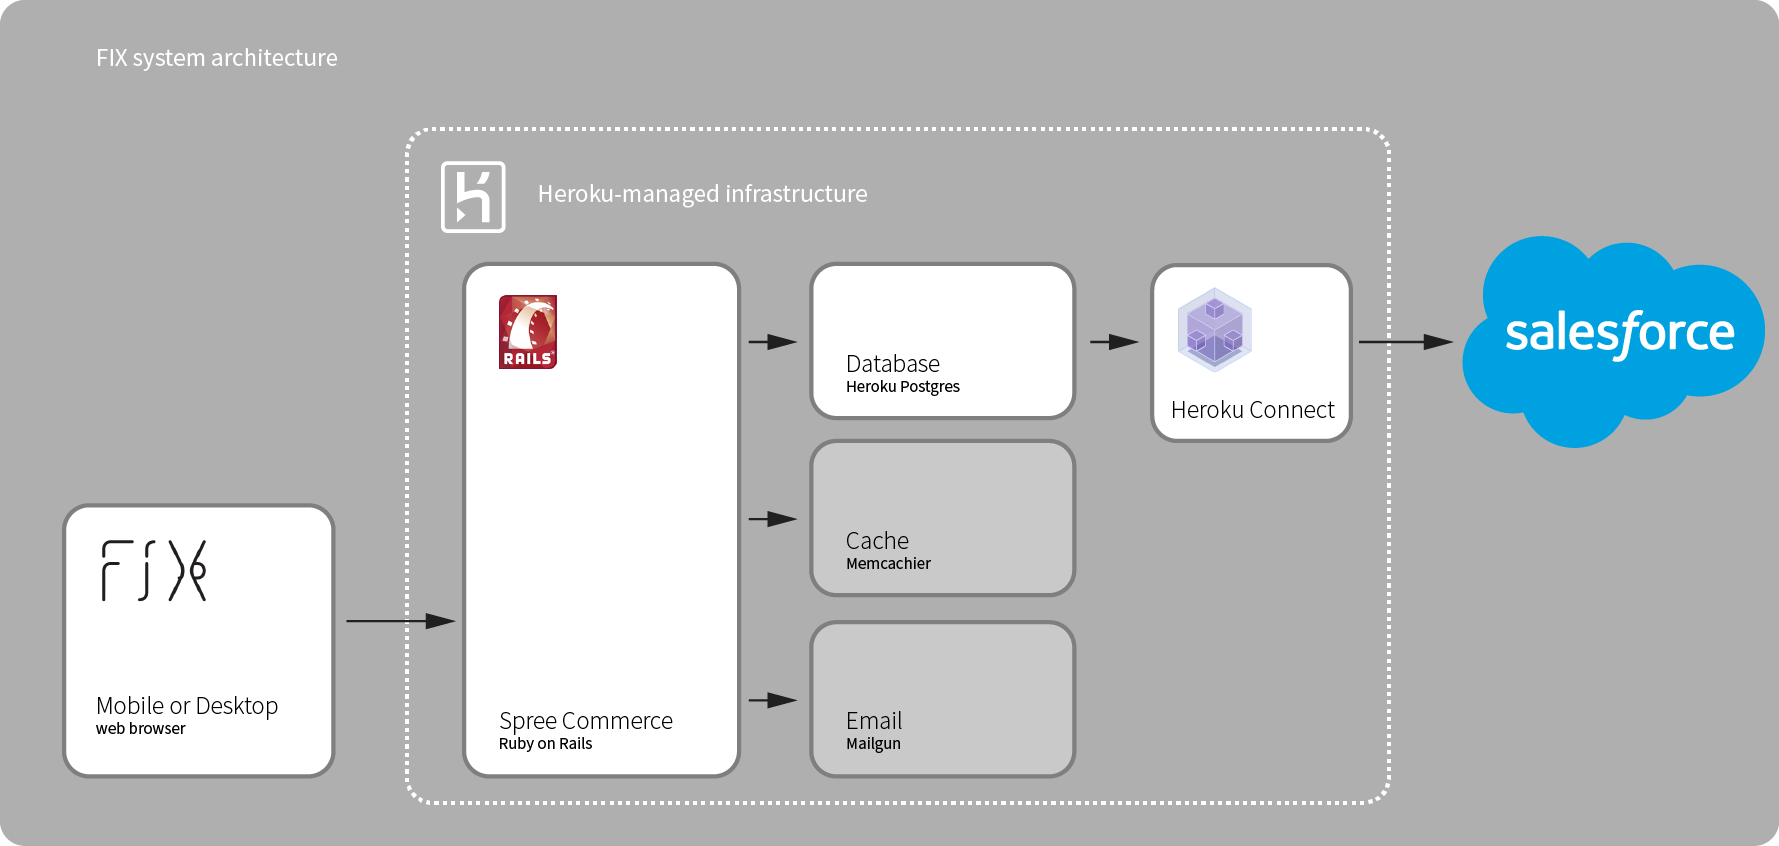
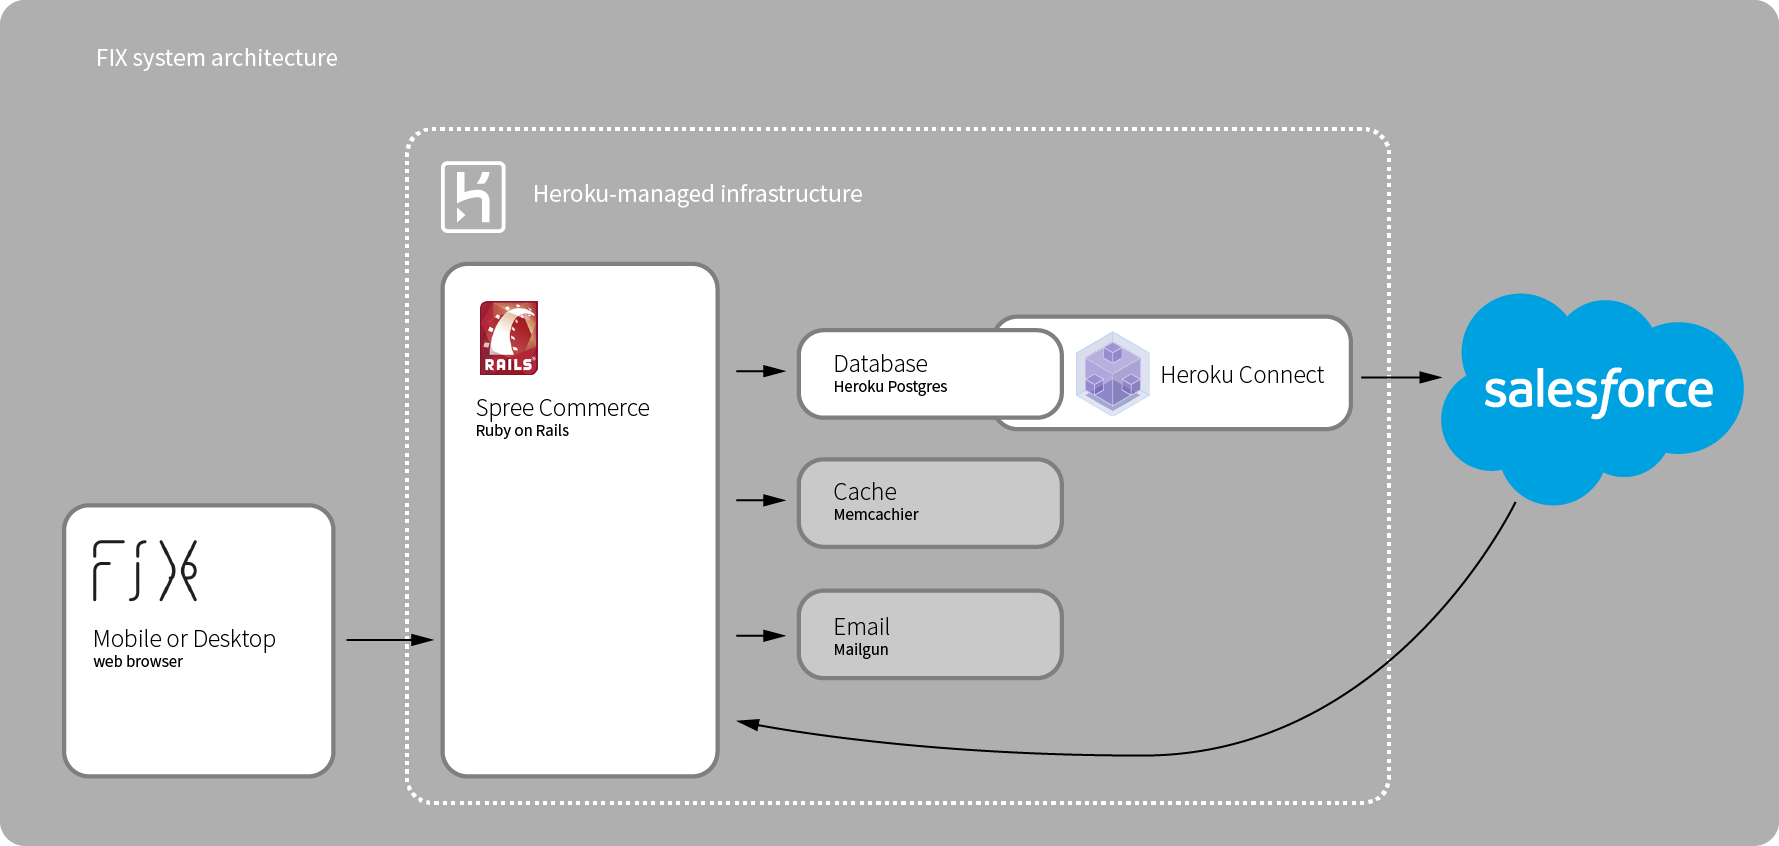
Revisions to architecture information.

diff --git a/architecture.html b/architecture.html
@@ -14,7 +14,42 @@ permalink: /architecture/
   <div class="row">
     <div class="col-md-4 stacked-block">
       <h2>Mobile or Desktop web UI</h2>
-      <p>Customers get a sleek, refined experience regardless of how they access the storefront. The user interface is implemented with the <a href="http://getbootstrap.com">Bootstrap</a> HTML/CSS responsive design framework.</p>
+      <p>Customers get a device-optimized experience regardless of how they access the storefront. The user interface is implemented with the <a href="http://getbootstrap.com">Bootstrap</a> HTML/CSS responsive design framework.</p>
+    </div>
+    <div class="col-md-4 stacked-block">
+      <h2>Spree storefront server</h2>
+      <p>The storefront server runs on Heroku exposing both a web-based interface for customers as well as a REST/HTTP API for integration with other systems.</p>
+      <p><a href="https://spreecommerce.com">Spree Commerce</a> provides everything needed to launch an eCommerce site, from payment gateway integrations to multi-location inventory control. Its built on <a href="http://rubyonrails.org">Ruby on Rails</a>, allowing complete customization by developers.</p>
+    </div>
+    <div class="col-md-4 stacked-block">
+      <h2>Salesforce synchronization</h2>
+      <p><a href="https://www.heroku.com/connect">Heroku Connect</a> synchronizes storefront data from Heroku Postgres to Salesforce:</p>
+      <ul>
+        <li>As Spree Products are updated
+          <ul>
+            <li><code>Product2</code></li>
+            <li><code>Pricebook2</code></li>
+            <li><code>PricebookEntry</code></li>
+          </ul>
+        </li>
+        <li>As Spree Users are updated
+          <ul>
+            <li><code>Contact</code></li>
+          </ul>
+        </li>
+        <li>As Spree Orders are completed
+          <ul>
+            <li><code>Order__c</code></li>
+            <li><code>LineItem__c</code></li>
+          </ul>
+        </li>
+      </ul>
+      <p>Easily configured with a point and click UI, developers can further extend the integration with Salesforce using rate-limit free, bi-directional synchronization.</p>
+    </div>
+    <div class="col-md-4 stacked-block">
+      <h2>Salesforce-centric workflow</h2>
+      <p>Records in Salesforce may be supplemented with buttons that invoke API calls to the storefront with the "Custom Button" feature.</p>
+      <p>For example, the Cancel Order button triggers a REST/HTTP API call to Spree immediately cancelling the order.</p>
     </div>
   </div>
 </div>
